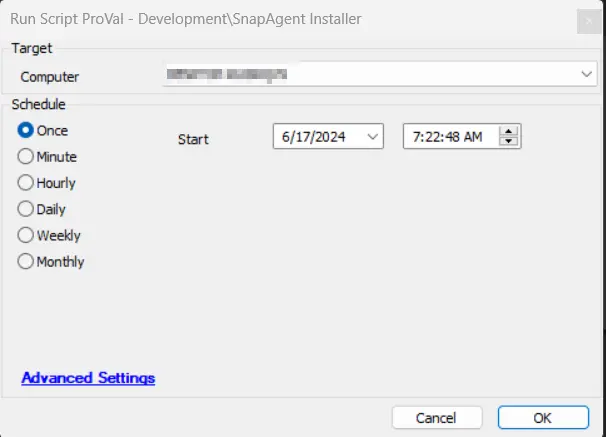
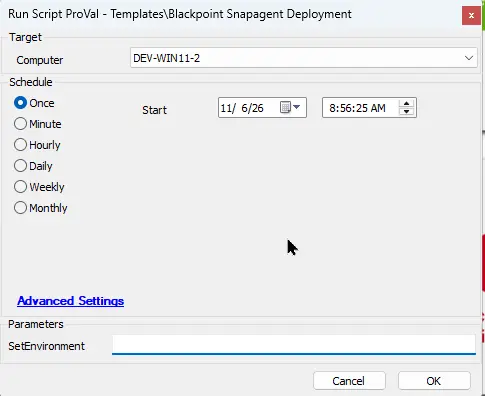
[Update] Blackpoint Solution - CWA
**Scipt : BlackPoint - SnapAgent Deployment (renamed from "SnapAgent Installer")***

- Supports macOS as well as Windows.
- The BlackPoint SNAP URL EDF is gone. Two new client EDFs replace it: Blackpoint Snapagent CustomerID and Blackpoint Snapagent Authentication Token.
- New Set_Environment parameter creates the EDFs on the first run.
- New ticket subject, plus a separate ticket body for Mac.
- The dependency now points to Install-BlackpointAgent.

**Monitor: BlackPoint SnapAgent Deployment**

-Now detects Mac agents too, not just Windows.
-No longer depends on the SNAP URL EDF.
-Added the alert template △ Custom - Execute Script - Install Blackpoint SnapAgent.

**Solution: BlackPoint SnapAgent Deployment (new)**
-Brings the script, monitor and alert template together, with an EDF reference, setup steps and an FAQ.

diff --git a/docs/solutions/blackpoint-snapagent-deployment-cwa.md b/docs/solutions/blackpoint-snapagent-deployment-cwa.md
@@ -1,0 +1,101 @@
+---
+id: 'ab272f63-2bea-430c-88ac-d8c90abbb051'
+slug: /ab272f63-2bea-430c-88ac-d8c90abbb051
+title: 'BlackPoint SnapAgent Deployment'
+title_meta: 'BlackPoint SnapAgent Deployment'
+keywords: ['blackpoint', 'snapagent', 'deployment', 'installation', 'monitor', 'edf']
+description: 'This solution automates the deployment of the BlackPoint SnapAgent on Windows and macOS machines through ConnectWise Automate.'
+tags: ['deployment', 'installation', 'security', 'windows', 'macos']
+draft: false
+unlisted: false
+last_update:
+  date: 2026-11-06
+---
+
+## Purpose
+
+This solution automates the deployment of the BlackPoint SnapAgent on Windows and macOS machines through ConnectWise Automate. The internal monitor detects online agents where the SnapAgent is not installed and deployment is enabled for the client. The alert template then runs the deployment script on the detected agents. The script installs the SnapAgent with the BlackPoint Customer ID and Authentication Token stored in the client-level EDFs. If the installation fails, the script creates a ticket with the installation log.
+
+## Associated Content
+
+| Content | Type | Function |
+|---------|------|----------|
+| [BlackPoint - SnapAgent Deployment](/docs/202e2dde-5865-4035-8410-37dc6cb92a60) | Script | Installs the BlackPoint SnapAgent on Windows and macOS machines with the Customer ID and Authentication Token stored in the client-level EDFs. Creates a ticket with the installation log if the installation fails. |
+| [BlackPoint SnapAgent Deployment](/docs/8dad86ab-7d59-43ef-b148-f4ab7df0b8f0) | Internal Monitor | Detects online Windows and macOS agents where the SnapAgent is not installed, the `BlackPoint SnapAgent Deploy` EDF is checked at the client level, and the agent is not excluded at the location or computer level. |
+| `△ Custom - Execute Script - Install Blackpoint SnapAgent` | Alert Template | Runs the [Script - BlackPoint - SnapAgent Deployment](/docs/202e2dde-5865-4035-8410-37dc6cb92a60) on the agents detected by the [Monitor - BlackPoint SnapAgent Deployment](/docs/8dad86ab-7d59-43ef-b148-f4ab7df0b8f0). |
+
+## Agnostic Content
+
+| Content | Type | Function |
+|---------|------|----------|
+| [Install-BlackpointAgent](/docs/0cf14533-c145-4a77-8ea7-8c70476768a9) | Agnostic PowerShell Script | Used by the script on Windows machines to download the SnapAgent installer for the configured Customer ID, install it silently, and verify the installation. |
+
+## EDFs
+
+| Name | Level | Type | Required | Description |
+|------|-------|------|----------|-------------|
+| `BlackPoint SnapAgent Deploy` | Client | Check Box | Yes | Check this EDF to enable SnapAgent deployment for the client. The monitor only detects agents of clients where this EDF is checked. |
+| `Blackpoint Snapagent CustomerID` | Client | Text | Yes | The unique BlackPoint Customer ID (Account UID) used to download the installer and link the endpoints to the correct BlackPoint account. |
+| `Blackpoint Snapagent Authentication Token` | Client | Text | Yes | The BlackPoint Authentication Token used to authorize the installer download and register the agent. |
+| `BlackPoint SnapAgent Exclude` | Location | Check Box | No | Check this EDF to exclude all agents of the location from the SnapAgent deployment. |
+| `BlackPoint SnapAgent Exclude` | Computer | Check Box | No | Check this EDF to exclude the agent from the SnapAgent deployment. |
+
+## Implementation
+
+1. Import the following content using the `ProSync` plugin:
+   - [Script - BlackPoint - SnapAgent Deployment](/docs/202e2dde-5865-4035-8410-37dc6cb92a60)
+   - [Internal Monitor - BlackPoint SnapAgent Deployment](/docs/8dad86ab-7d59-43ef-b148-f4ab7df0b8f0)
+   - Alert Template - `△ Custom - Execute Script - Install Blackpoint SnapAgent`
+
+2. Reload the system cache:
+
+   ![Reload Cache](../../static/img/docs/bd8800e7-9e78-4b98-b4f6-4fc9610a9c36/image_1.webp)
+
+3. Execute the [Script - BlackPoint - SnapAgent Deployment](/docs/202e2dde-5865-4035-8410-37dc6cb92a60) against any online Windows machine with the `Set_Environment` parameter set to `1` to create the EDFs used by the solution.
+
+4. Reload the system cache again so the new EDFs are visible.
+
+5. Configure the EDFs for each client that requires the SnapAgent:
+   - Check the client-level EDF `BlackPoint SnapAgent Deploy`.
+   - Fill the client-level EDF `Blackpoint Snapagent CustomerID` with the client's BlackPoint Customer ID.
+   - Fill the client-level EDF `Blackpoint Snapagent Authentication Token` with the client's BlackPoint Authentication Token.
+   - Optional: Check the location-level or computer-level `BlackPoint SnapAgent Exclude` EDF to exclude locations or computers from the deployment.
+
+6. Configure the solution as outlined below:
+   - Navigate to Automation → Monitors within the CWA Control Center and set up the following:
+     - [Internal Monitor - BlackPoint SnapAgent Deployment](/docs/8dad86ab-7d59-43ef-b148-f4ab7df0b8f0)
+       - Set up with the `△ Custom - Execute Script - Install Blackpoint SnapAgent` alert template.
+       - Set the ticket category at the monitor level to enable ticket creation for failed installations:
+
+         ![Ticket Category](../../static/img/docs/8dad86ab-7d59-43ef-b148-f4ab7df0b8f0/image_1.webp)
+
+       - Right-click and select `Run Now` to start the monitor.
+
+## FAQ
+
+**Q:** Which operating systems does this solution support?  
+**A:** Windows and macOS. The monitor detects both Windows and macOS agents, and the script runs the correct installation method for each operating system.
+
+**Q:** What happens if the `Blackpoint Snapagent CustomerID` or `Blackpoint Snapagent Authentication Token` EDF is empty?  
+**A:** Both values are required to download the installer and register the agent. If either value is missing, the installation fails and the script creates a ticket if the ticket category is set at the monitor level.
+
+**Q:** Does the solution still use the `BlackPoint SNAP URL` EDF?  
+**A:** No. The `BlackPoint SNAP URL` EDF has been replaced by the `Blackpoint Snapagent CustomerID` and `Blackpoint Snapagent Authentication Token` EDFs. The installer is now downloaded for the configured Customer ID, so no installer URL needs to be maintained.
+
+**Q:** How do I exclude a location or a single computer from the deployment?  
+**A:** Check the `BlackPoint SnapAgent Exclude` EDF at the location level to exclude all agents of that location, or at the computer level to exclude a single agent.
+
+**Q:** Why is no ticket created when the installation fails?  
+**A:** Tickets are only created when a ticket category is set at the monitor level. Set the ticket category on the [Internal Monitor - BlackPoint SnapAgent Deployment](/docs/8dad86ab-7d59-43ef-b148-f4ab7df0b8f0) as shown in step 6 of the implementation.
+
+**Q:** What happens if the SnapAgent is already installed?  
+**A:** The monitor only detects agents where the SnapAgent is not installed, so the script will not run on machines that already have it.
+
+**Q:** How can I confirm that the SnapAgent installed successfully?  
+**A:** Review the script log for the machine and check that `Blackpoint Agent` appears in the installed applications. On Windows, the agent can take up to 5 minutes to register after the installation.
+
+## Changelog
+
+### 2026-11-06
+
+- Initial version of the document

diff --git a/docs/cwa/scripts/blackpoint-snapagent-deployment.md b/docs/cwa/scripts/blackpoint-snapagent-deployment.md
@@ -1,0 +1,85 @@
+---
+id: '202e2dde-5865-4035-8410-37dc6cb92a60'
+slug: /202e2dde-5865-4035-8410-37dc6cb92a60
+title: 'BlackPoint - SnapAgent Deployment'
+title_meta: 'BlackPoint - SnapAgent Deployment'
+keywords: ['snapagent', 'installation', 'monitor', 'edf', 'deployment']
+description: 'This script installs the Blackpoint SnapAgent on Windows and macOS machines.'
+tags: ['deployment', 'installation', 'logging']
+draft: false
+unlisted: false
+last_update:
+  date: 2026-11-06
+---
+
+## Summary
+
+This script installs the Blackpoint SnapAgent on Windows and macOS machines. It uses the Blackpoint Customer ID and authentication token stored in the client-level EDFs to link the endpoint to the correct Blackpoint account. If the installation fails, the script creates a ticket with the installation log.
+
+## Sample Run
+
+![Sample Run](../../../static/img/docs/202e2dde-5865-4035-8410-37dc6cb92a60/image_1.webp)
+
+## Dependencies
+
+- [Agnostic : Install-BlackpointAgent](/docs/0cf14533-c145-4a77-8ea7-8c70476768a9) 
+- [Solution : BlackPoint SnapAgent Deployment](/docs/ab272f63-2bea-430c-88ac-d8c90abbb051) 
+
+## Extra Data Fields
+
+| Name                             | Level   | Type       | Description     |
+|----------------------------------|---------|------------|------------------------------------|
+| BlackPoint SnapAgent Deploy      | Client  | Check Box  | This client-level EDF needs to be checked for the SnapAgent installation. The monitor [Monitor - BlackPoint SnapAgent Deployment](/docs/8dad86ab-7d59-43ef-b148-f4ab7df0b8f0) is directly proportional to this EDF.  |
+| Blackpoint Snapagent CustomerID | Client  | Text       | This client-level EDF must be filled with the Unique BlackPoint Account UID used to identify and link endpoints to the correct BlackPoint account. |
+| Blackpoint Snapagent Authentication Token | Client  | Text       | This client-level EDF must be filled with Unique BlackPoint Authentication Code required to authenticate and install the BlackPoint Agent on endpoints. |
+| BlackPoint SnapAgent Exclude     | Location| Check Box  | If this location-level EDF is checked, then all agents of the location will be excluded from the monitor for the SnapAgent deployment. The monitor [Monitor - BlackPoint SnapAgent Deployment](/docs/8dad86ab-7d59-43ef-b148-f4ab7df0b8f0) is indirectly proportional to this EDF.              |
+| BlackPoint SnapAgent Exclude     | Computer| Check Box  | If this computer-level EDF is checked, then the agent will be excluded from the monitor for the SnapAgent deployment. The monitor is indirectly [Monitor - BlackPoint SnapAgent Deployment](/docs/8dad86ab-7d59-43ef-b148-f4ab7df0b8f0) proportional to this EDF.                                 |
+
+
+## User Parameters
+
+| Name | Required | Example | Description   |
+|---------|---------|---------|---------|
+| Set_Environment    | 1      | False    | Required for the first run only to import the EDF's used by the solution.  |
+
+
+## Ticketing
+
+- To enable the ticketing feature, it is mandatory to set the ticket category at the monitor level as shown below:
+
+![Ticketing Category](../../../static/img/docs/202e2dde-5865-4035-8410-37dc6cb92a60/image_2.webp)
+
+- **Subject:**  
+  SW - Blackpoint SnapAgent Installation Failed on %clientname%\%computername%
+
+- **Body:** [Windows]
+  ```
+  The Blackpoint SnapAgent Installation Failed on %computername% at %clientname%\%locationname%. Please review the log below:
+
+  @ErrorLog@.
+  ```
+
+- **Body:** [MAC]
+  ```
+  The Blackpoint SnapAgent Installation Failed on %computername% at %clientname%\%locationname%. Please review the log below:
+
+  %Shellresult%
+  ```
+## Output
+
+- Script log
+- Local files on the computer
+
+## Changelog
+
+### 2026-11-06
+
+- Renamed the script from `BlackPoint - SnapAgent Installer` to `BlackPoint - SnapAgent Deployment`.
+- Added support for macOS machines.
+- Replaced the `BlackPoint SNAP URL` EDF with the `Blackpoint Snapagent CustomerID` and `Blackpoint Snapagent Authentication Token` client-level EDFs.
+- Added the `Set_Environment` user parameter to import the EDFs used by the solution.
+- Updated the ticket subject and body, and added a separate ticket body for macOS machines.
+
+### 2025-04-10
+
+- Initial version of the document

diff --git a/docs/cwa/monitors/blackpoint-snapagent-deployment.md b/docs/cwa/monitors/blackpoint-snapagent-deployment.md
@@ -4,27 +4,27 @@ slug: /8dad86ab-7d59-43ef-b148-f4ab7df0b8f0
 title: 'BlackPoint SnapAgent Deployment'
 title_meta: 'BlackPoint SnapAgent Deployment'
 keywords: ['monitor', 'snapagent', 'installation', 'deployment', 'windows']
-description: 'This document outlines a monitor designed to detect online Windows agents where the SnapAgent is not installed. It includes dependencies on specific EDFs for installation confirmation and exclusion criteria, as well as ticketing control through the SnapAgent Installer script.'
+description: 'This monitor detects online Windows and MAC agents where the SnapAgent is not installed.'
 tags: ['deployment', 'ticketing', 'windows']
 draft: false
 unlisted: false
 last_update:
-  date: 2025-05-09
+  date: 2026-11-06
 ---
 
 ## Summary
 
-This monitor detects online Windows agents where the SnapAgent is not installed.
+This monitor detects online Windows and MAC agents where the SnapAgent is not installed.
 
 It also depends on the following EDFs:
-- **BlackPoint SNAP URL**: The Client EDF should contain the URL of the installer package downloader.
 - **BlackPoint SnapAgent Deploy**: The Client EDF should be checked for deployment confirmation.
-- **BlackPoint SnapAgent Deploy Exclude**: The location EDF should not be checked for deployment; otherwise, agents from those locations will be excluded.
+- **BlackPoint SnapAgent Exclude**: The location EDF should not be checked for deployment; otherwise, agents from those locations will be excluded.
 - **BlackPoint SnapAgent Exclude**: The computer EDF should not be checked for deployment; otherwise, the agent will be excluded.
 
 ## Dependencies
 
-[CWA - Script - SnapAgent Installer](/docs/202e2dde-5865-4035-8410-37dc6cb92a60)
+- [Script : BlackPoint - SnapAgent Deployment](/docs/202e2dde-5865-4035-8410-37dc6cb92a60)
+- [Solution : BlackPoint SnapAgent Deployment](/docs/ab272f63-2bea-430c-88ac-d8c90abbb051)
 
 ## Target
 
@@ -32,12 +32,23 @@ Global
 
 ## Ticketing
 
-- The ticket is controlled by the script "SnapAgent Installer."
+- The ticket is controlled by the script [Script : BlackPoint - SnapAgent Deployment](/docs/202e2dde-5865-4035-8410-37dc6cb92a60).
 - To enable the ticketing feature, it is mandatory to set the ticket category at the monitor level, as shown below:
 
 ![Ticket Category](../../../static/img/docs/8dad86ab-7d59-43ef-b148-f4ab7df0b8f0/image_1.webp)
 
+
+## Alert Template
+
+`△ Custom - Execute Script - Install Blackpoint SnapAgent`
+
 ## Changelog
+
+### 2026-11-06
+
+- Extended the monitor to detect MAC agents in addition to Windows agents.
+- Removed the `BlackPoint SNAP URL` EDF dependency.
+- Added the Alert Template section.
 
 ### 2025-04-10
 
